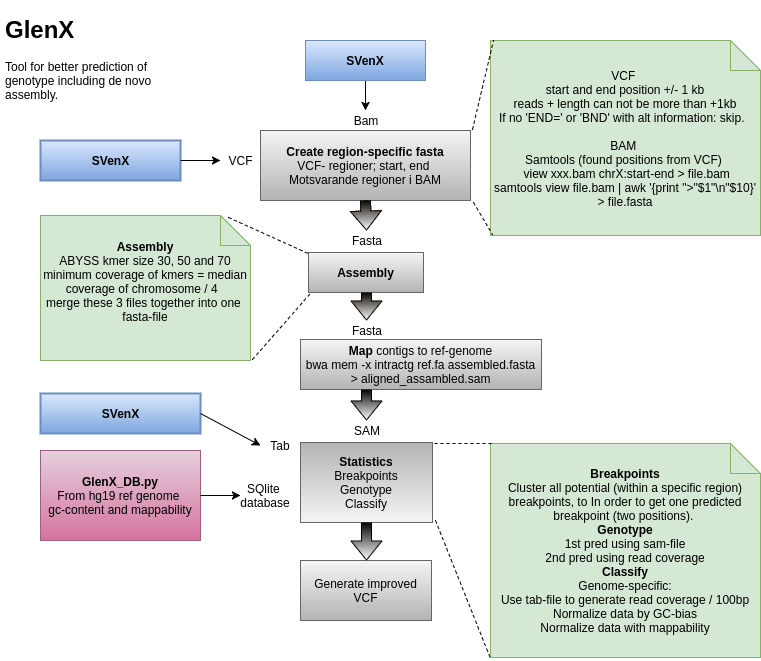
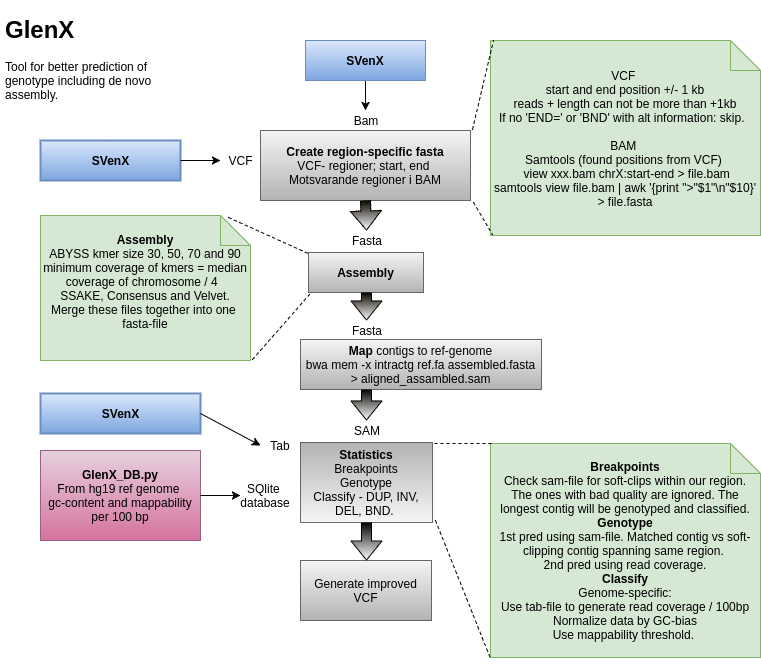
modified:   Glen.png 	modified:   GlenX.py 	modified:   assembly.sh 	modified:   modules/genotype_caller.py 	modified:   modules/statistics.py

diff --git a/GlenX.py b/GlenX.py
@@ -145,7 +145,7 @@ def region_specific_assembly (vcf, bam, ID, db, bwa_ref):
 			
 			# If no breakpoints with good quality could be found inside our region, the old SV wiil be written to our new vcf
 			if sv_type == 'N/A':
-				f_out = write(line + '\n') 
+				f_out.write(line) 
 				continue
 
 			# Manipulate line with new improved SV information
@@ -159,8 +159,9 @@ def region_specific_assembly (vcf, bam, ID, db, bwa_ref):
 			contig_l = sv_info[9]
 			contig_seq = sv_info[10]
 
-			glenX_stats = '{}|{}|{}|{}|{}|{}|{}'.format(contig_l, contig_seq, statistics['r_i_norm'], statistics['r_i'], statistics['m_all_at'], statistics['gc_content'], statistics['map_i'] ) # contig length, seq, normalized read ceverage, raw read-coverage, gc-content and mappabilty score
-			
+			# contig length, seq, normalized read ceverage, raw read-coverage, gc-content and mappabilty score
+			glenX_stats = '{}|{}|{}|{}|{}|{}|{}'.format(contig_l, contig_seq, statistics['r_i_norm'], statistics['r_i'], statistics['m_all_at'], statistics['gc_content'], statistics['map_i'] ) 
+
 			if sv_type == 'BND':
 			 	split_line[7] = 'SVTYPE=BND;GlenX={}'.format(GlenX_stats) #;CHRA=' + chromA  + ';CHRB=split_line[7] = 'SVTYPE=BND' #;CHRA=' + chromA  + ';CHRB=' + chromB + ';END=' + sv_info[7] ' + chromB + ';END=' + sv_info[7] # mating breakpoint 
 				split_line[4] = 'N[{}:{}[' .format(chromB, sv_info[7])
@@ -179,6 +180,7 @@ def region_specific_assembly (vcf, bam, ID, db, bwa_ref):
 # START GLENX
 #======================================================================================================
 
+print 'Starts GlenX..'
 db = read_cov_db(ID, tab)
 print 'The database: ', db, 'is completed'	
 assembly = region_specific_assembly (vcf, bam, ID, db, bwa_ref)

diff --git a/modules/genotype_caller.py b/modules/genotype_caller.py
@@ -8,7 +8,6 @@ module_path = '{}{}'.format(cwd, '/modules')
 sys.path.insert(0, module_path)
 from check_bam_flag import bam_flag
 from cigar import cigar_count
-from cdhit import ex_cdhit
 from statistics import get_stats
 
 
@@ -118,7 +117,7 @@ def call_genotype (sam, chromA, chromB, posA_start, posA_end, posB_start, posB_e
 	# if no breakpoints could be found, skip this variant!					
 	if len(s_arr) == 0:
 		#print 'no breakpoints could be found'
-		return s_arr, 'N/A', 'N/A' # returns N/A in order to continue the loop
+		return s_arr, 'N/A', 'N/A', 'N/A' # returns N/A in order to continue the loop
 
 	elif len(s_arr) > 0: # if one or more breakpoint was found		
 	# If several predicted SVs in s_arr; compare them and choose the one that seems most trustworthy. 
@@ -148,7 +147,7 @@ def call_genotype (sam, chromA, chromB, posA_start, posA_end, posB_start, posB_e
 
 		# mappability threshold, we do not want to keep SVs who have a low mappability score = no support for SV.  
 		if stat_map_score  < 0.9:
-			return s_arr, 'N/A', 'N/A' 
+			return s_arr, 'N/A', 'N/A', statistics 
 
 		# classify SV. 	
 		if best_breakpoint[1] != best_breakpoint[6]: # breakpoints are located on different chromosomes -> break end

diff --git a/modules/statistics.py b/modules/statistics.py
@@ -1,11 +1,11 @@
 #/usr/bin/python
 
 import sqlite3
-import sys
 
-db = sys.argv[1]
-ch = "1"
-pos = 17900000
+
+#db = sys.argv[1]
+#ch = "1"
+#pos = 17900000
 
 def get_stats(db, ch, pos):
 
@@ -42,8 +42,8 @@ def get_stats(db, ch, pos):
 
 	return statistics
 
-statistics = get_stats(db, ch, pos)
-print statistics	
+#statistics = get_stats(db, ch, pos)
+#print statistics	
 #print statistics['r_i']
 
 
